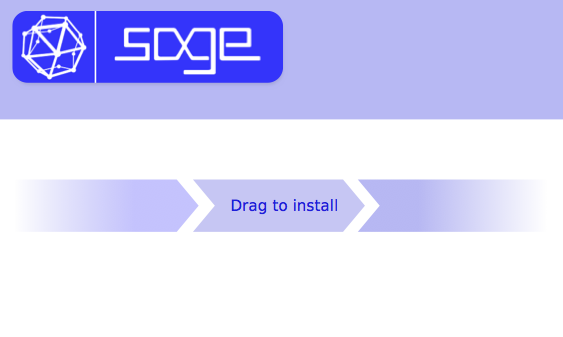
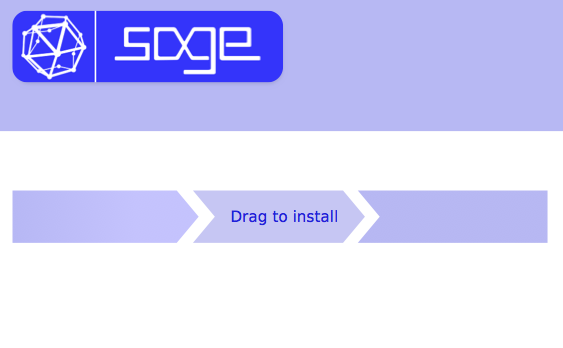
Adding code to Makefile building .app.dmg distribution to: - add a background image - write .DS_Store to instruct finder to show that background image - add symlink to /Applications/ - add symlink from Sage-VERSION.app/sage to Contents/Resources/sage/sage
Also fine-tuning the image and icon placement.

diff --git a/src/mac-app/tools/createDSStore/createDSStore.py b/src/mac-app/tools/createDSStore/createDSStore.py
@@ -23,12 +23,15 @@ import ds_store, mac_alias, biplist
 import datetime, sys, os
 
 # Hard-coded data for finder
-backgroundImageSize = (563, 337)
+# The .background.png's dpi should be set to 72, otherwise, we get weird
+# behavior (especially on Retina displays). This can be fixed with
+#    convert -density 72 -units pixelsperinch file.png file.png
+backgroundImageSize = (563, 348)
 backgroundImageName = '.background.png'
 iconPositions = {
-    'README.txt' : (716, 76),
-    'Applications' : (666, 290),
-    'app' :  (151, 291)
+    'README.txt' : (497, 52),
+    'Applications' : (462, 212),
+    'app' :  (104, 212)
 }
 
 def getWindowData_bwsp():
@@ -97,7 +100,7 @@ def getBackgroundImage_icvp(volume_name):
         'viewOptionsVersion': 1,
         'backgroundColorBlue': 1.0,
         'scrollPositionX': 0.0,
-        'iconSize': 128.0,
+        'iconSize': 88.0,
         'backgroundColorGreen': 1.0,
         'arrangeBy': 'none',
         'showIconPreview': False,
